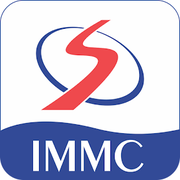
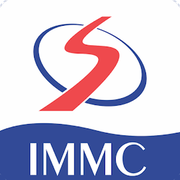
Novo ícone da tela inicial sem moldura branca e cache atualizado
Claude-Session: https://claude.ai/code/session_01S7iMt6HDi7n2gsiPXRFoJ5

diff --git a/index.html b/index.html
@@ -6,7 +6,7 @@
 <meta name="theme-color" content="#2F4392">
 <link rel="icon" type="image/png" href="logo.png">
 <link rel="manifest" href="manifest.json">
-<link rel="apple-touch-icon" href="apple-touch-icon.png">
+<link rel="apple-touch-icon" href="apple-touch-icon.png?v=2">
 <meta name="mobile-web-app-capable" content="yes">
 <meta name="apple-mobile-web-app-capable" content="yes">
 <meta name="apple-mobile-web-app-title" content="Time Control">

diff --git a/sw.js b/sw.js
@@ -1,4 +1,4 @@
-const VERSAO = 'time-control-v1';
+const VERSAO = 'time-control-v2';
 const ARQUIVOS = ['./', 'index.html', 'logo.png', 'icon-192.png', 'icon-512.png', 'manifest.json'];
 
 self.addEventListener('install', function (e) {
